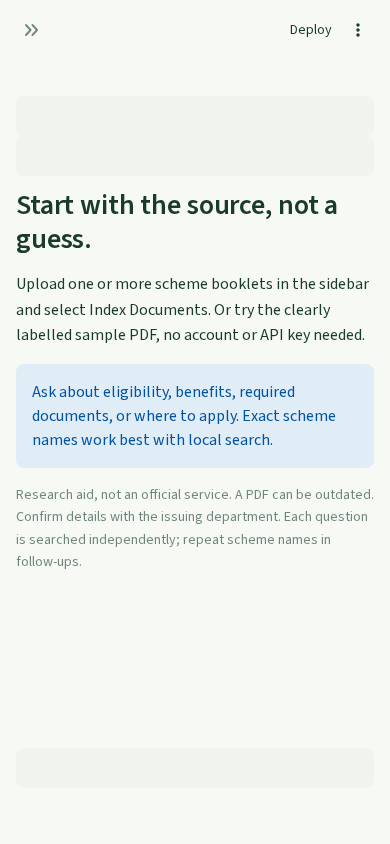
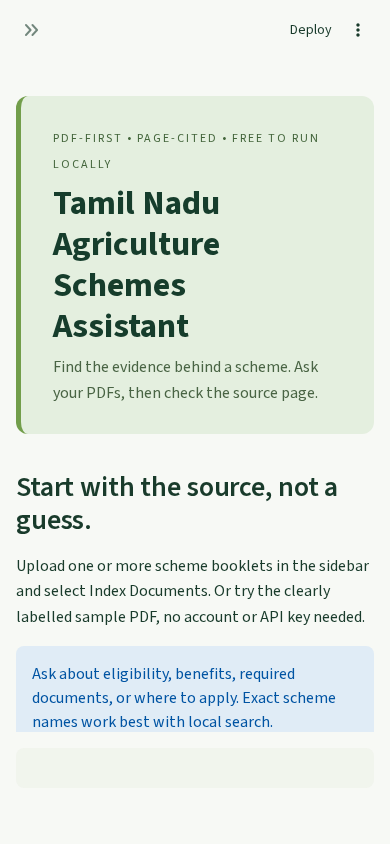
Finish responsive visual checks and stable UI smoke capture

diff --git a/scripts/ui_smoke.py b/scripts/ui_smoke.py
@@ -34,6 +34,7 @@ try:
         page.get_by_text('These passages match your question.', exact=False).wait_for()
         page.get_by_text('[1] sample-training.pdf (PDF p.1)', exact=True).click()
         page.get_by_text('Physical PDF page, counted from 1.', exact=False).first.wait_for()
+        page.wait_for_function("document.querySelector('[data-testid=stApp]')?.getAttribute('data-test-script-state') === 'notRunning'")
         page.screenshot(path=str(ROOT / 'docs' / 'demo.png'), full_page=True)
         page.get_by_role('button', name='Clear Chat', exact=True).click()
         page.get_by_text('Active files: sample-training.pdf', exact=True).wait_for()
@@ -46,6 +47,8 @@ try:
         page = browser.new_page(viewport={'width': 390, 'height': 844})
         page.goto('http://127.0.0.1:8501')
         page.get_by_text('Start with the source, not a guess.').wait_for()
+        page.get_by_role('heading', name='Tamil Nadu Agriculture Schemes Assistant').wait_for()
+        page.wait_for_function("document.querySelector('[data-testid=stApp]')?.getAttribute('data-test-script-state') === 'notRunning'")
         page.screenshot(path=str(ROOT / 'docs' / 'mobile.png'), full_page=True)
         browser.close()
         print('UI smoke passed: upload/index/sample/question/source/clear/remove/mobile.')
